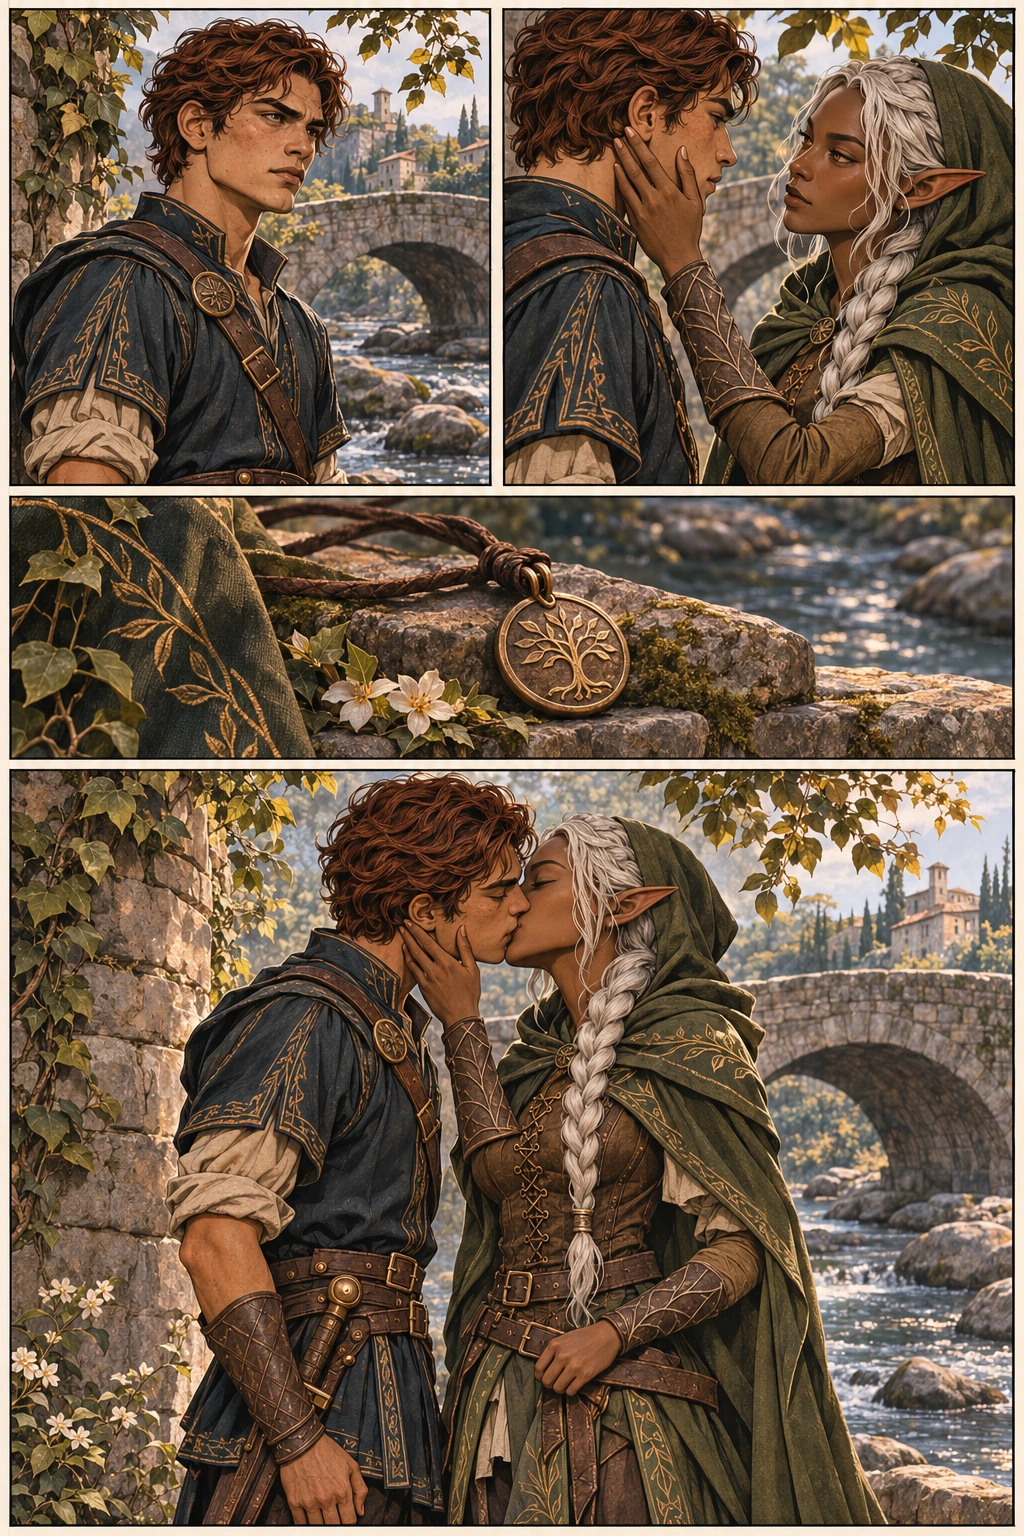
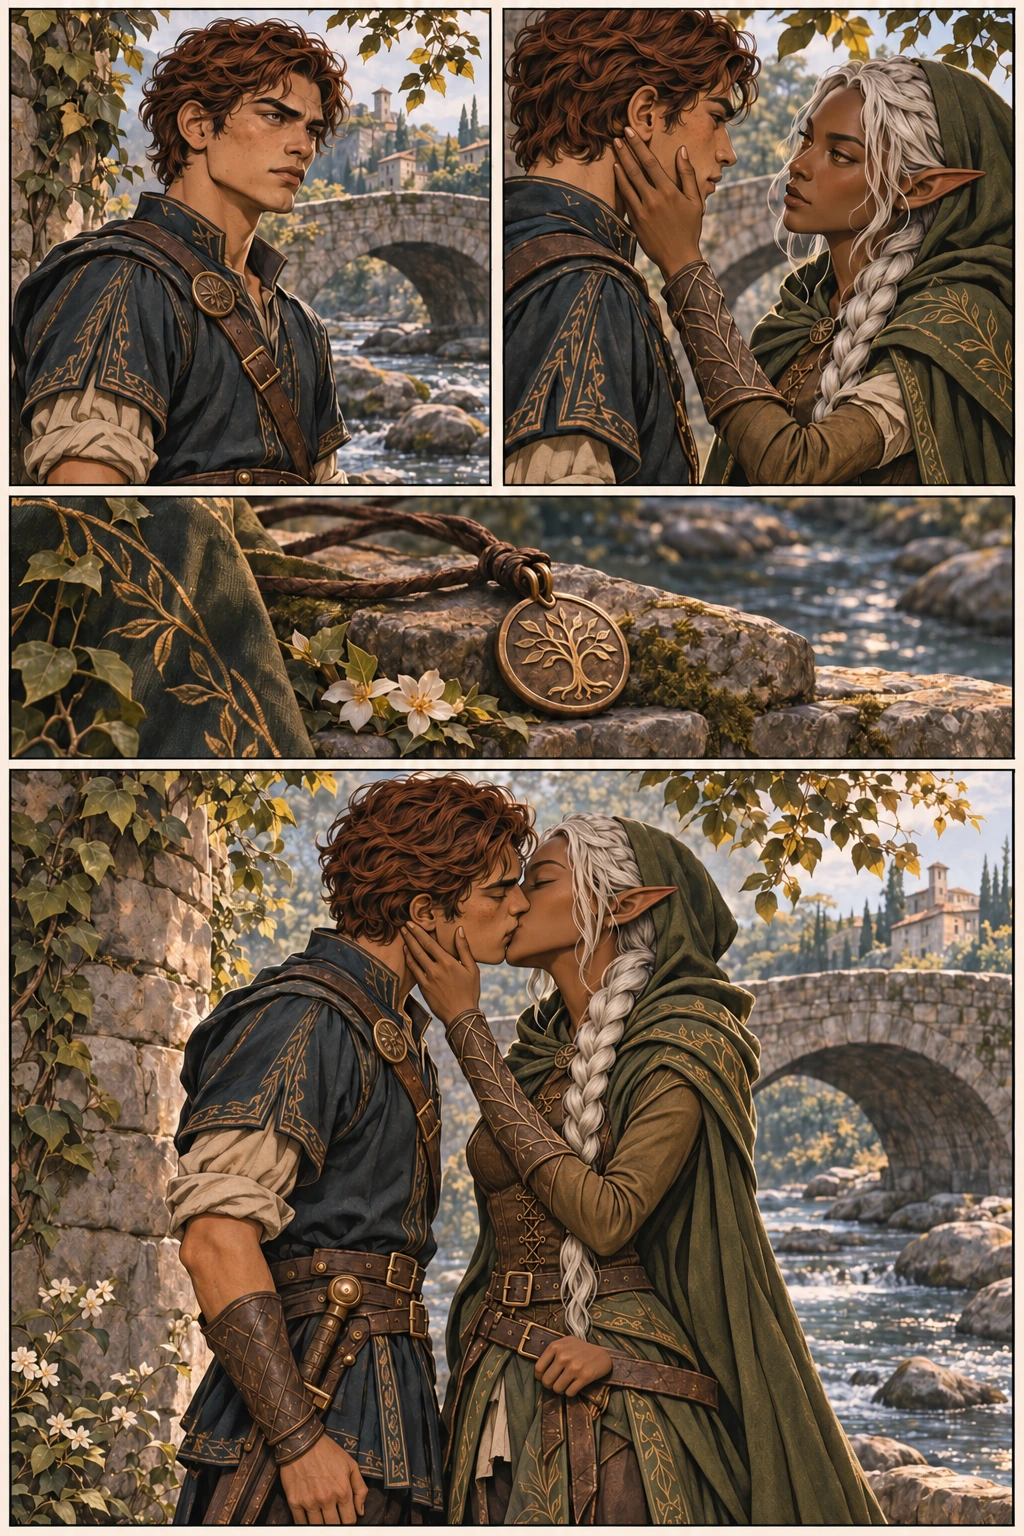
Fix Sere and Runa arm anatomy on pages 1493 and 1528

diff --git a/reader/medieval/continuity-arc10-panels.md b/reader/medieval/continuity-arc10-panels.md
@@ -17,3 +17,7 @@ Prompts e registros de geração integrados nos arquivos `prompts-arc10-panels-1
 As 79 páginas 1464–1542 foram geradas e inspecionadas individualmente: 76 páginas com três ou quatro quadros e três páginas de impacto planejadas (1469, 1512 e 1520). Corrigidas e revistas as artes 1472, 1478, 1481–1483, 1490, 1492, 1503, 1522, 1540 e 1542. As capturas do leitor abrangem todas as 79 páginas em desktop (1265×720) e celular (390×844), incluindo deslocamento horizontal e começo, meio e fim da arte. Balões e transcrição não se duplicam; rostos permanecem livres nas artes aprovadas.
 
 Os 47 testes de reader.tests.test_medieval passaram. Exportação estática e preparação do pacote Sites concluídas, com navegação até 1542 e arco 10 marcado como concluído. A publicação será registrada pelo commit e pelas versões remotas, sem antecipar seu sucesso neste documento.
+
+## Correção pontual de anatomia: 1493 e 1528
+
+Após apontamento do autor, o braço elevado de Sere no beijo da 1493 foi redesenhado com ombro, braço e cotovelo externos conectados ao antebraço que toca Caio. Na vinheta inferior esquerda da 1528 foi removido o antebraço extra atravessando o braço tatuado de Runa. Revisadas as duas páginas completas, preservando quadros, fisionomias, falas e a sequência. Prompts de edição e fontes em `repairs-1493-1528.json`.
